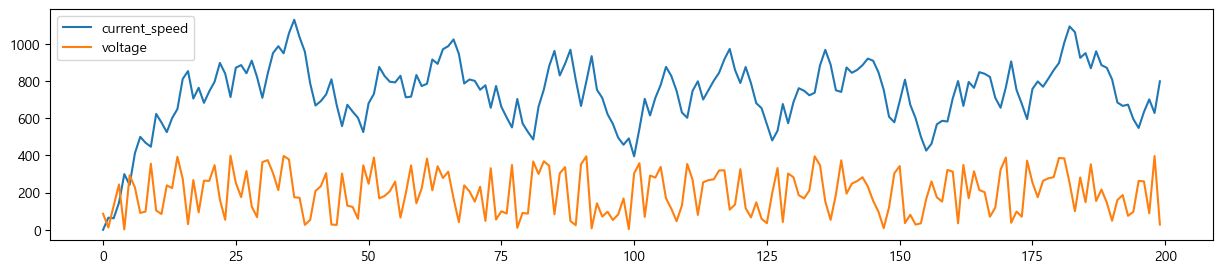
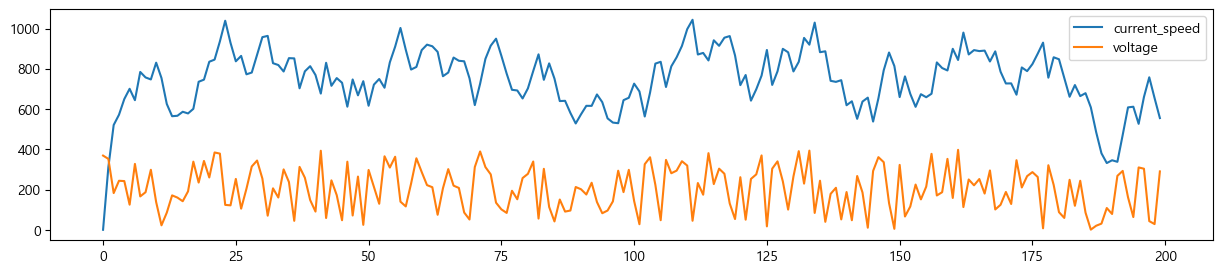
image 5-1

diff --git a/_posts/2026-03-05-simple_mpc.md b/_posts/2026-03-05-simple_mpc.md
@@ -11,8 +11,6 @@ toc: true
 
 MPC에 대해 글을 써볼까.
 
-# 0.
-
 회사에서 제어를 위한 툴로서 강화학습과 MPC를 사용한다.
 둘 모두 실시간 제어 즉 온라인 방식을 구현해내는 것은 쉬운 일이 아니지만 이것들을 제한적으로 사용하거나 오프라인 방식으로 활용하는 방안은 충분히 생각해볼 법하다.
 
@@ -45,7 +43,7 @@ class Motor:
     def __init__(self):
         self.speed = 0.0
         
-    def apply_voltage(self, voltage, noise_std=1.0):
+    def apply_voltage(self, voltage, noise_std=10.0):
         """전압을 주면 속도가 변함"""
         # 간단한 식: 새속도 = 현재속도 * 0.8 + 전압 * 30 + noise
         noise = np.random.normal(0, noise_std)
@@ -138,12 +136,12 @@ model = train_model(df)
 print(model.coef_.round(8), round(model.intercept_,8))
 ```
 
-`[ 0.80019128 29.95026486] 0.10796784`
+`[ 0.79428807 29.74423484] 5.89475244`
 
 당연하게도 처음 가정한 시스템 동역학 식과 거의 일치하는 식이 도출된다.
 
 $$
-s_{t+1}=f(s_t,v_t)=0.80019128 s_t+29.95026486v_t+0.10796784
+s_{t+1}=f(s_t,v_t)=0.79428807 s_t + 29.74423484 v_t+5.89475244
 $$
 
 이 모델은 데이터로부터 우리가 추론해낸 시스템 동역학이다.
@@ -208,8 +206,9 @@ result = minimize(cost, initial_plan, bounds=bounds)
 print(result.x)
 ```
 
-`[30.         26.07073943 10.00339915 10.00324293 10.00360237 10.0034147
- 10.00345973 10.00324613 10.00364791 10.00353239]
+`
+[30.         26.24554965 10.17598267 10.17576185 10.17595909 10.175793
+ 10.17593034 10.17558639 10.17605522 10.17605394]
 `
 
 그 결과로 얻어지는 $v^\ast=\text{argmin}_vJ(v)=(v^\ast_0,\cdots,v^\ast_9)$를 관찰하면
@@ -258,4 +257,51 @@ print(best_voltage)
 
 ## Online MPC (50 step)
 
+각 스텝 $t$마다 $s_t$가 주어졌을 때, $J(v)$를 최소화시키는 $v^\ast=(v^\ast_0,\cdots,v^\ast_9)$를 구한 후 그 중 첫번째 값 $v^\ast_0$만을 취하여 $v_t$로 둔다.
+이후 모터의 동역학식을 적용하여 $s_{t+1}$을 구한다.
+그런 식으로 50번의 스텝을 시행한 결과는 다음과 같다. 목표변수는 목표값에 수렴해가는 모습을 보인다.
+
+```
+motor = Motor()
+results = []
+target = 1500.0
+
+for t in range(50):
+    # 현재 속도
+    speed = motor.speed
+
+    # MPC로 전압 계산
+    voltage = mpc_control(model, speed, target)
+
+    # 모터에 적용
+    new_speed = motor.apply_voltage(voltage)
+
+    # 기록
+    results.append({
+        'time': t,
+        'speed': new_speed,
+        'target': target,
+        'voltage': voltage
+    })
+results_df = pd.DataFrame(results)
+results_df.to_csv('results.csv', index=False)
+
+plt.figure(figsize=(10, 6))
+plt.plot(results_df['time'], results_df['speed'], label='실제 속도', linewidth=2)
+plt.plot(results_df['time'], results_df['target'], 'r--', label='목표 속도', linewidth=2)
+plt.xlabel('시간 (초)')
+plt.ylabel('속도 (RPM)')
+plt.title('MPC 제어 결과 (50 step, receding horizon)')
+plt.legend()
+plt.grid(True, alpha=0.3)
+```
+
+![5-1_online_result]({{site.url}}\images\2026-03-05-simple_mpc\5-1_online_result.png){: .img-100-center}
+
+위 코드에서 `apply_voltage`는 단순히 동역학 식을 넣어서 다음 스텝을 도출하는 구조였다.
+만약 정말 실시간 제어를 한다면 `apply_voltage`는 '실제로' 전압을 가하고 다음 스텝의 속도를 '관찰'하는 형태가 되어야 할 것이다.
+
 ## Offline MPC
+
+
+
